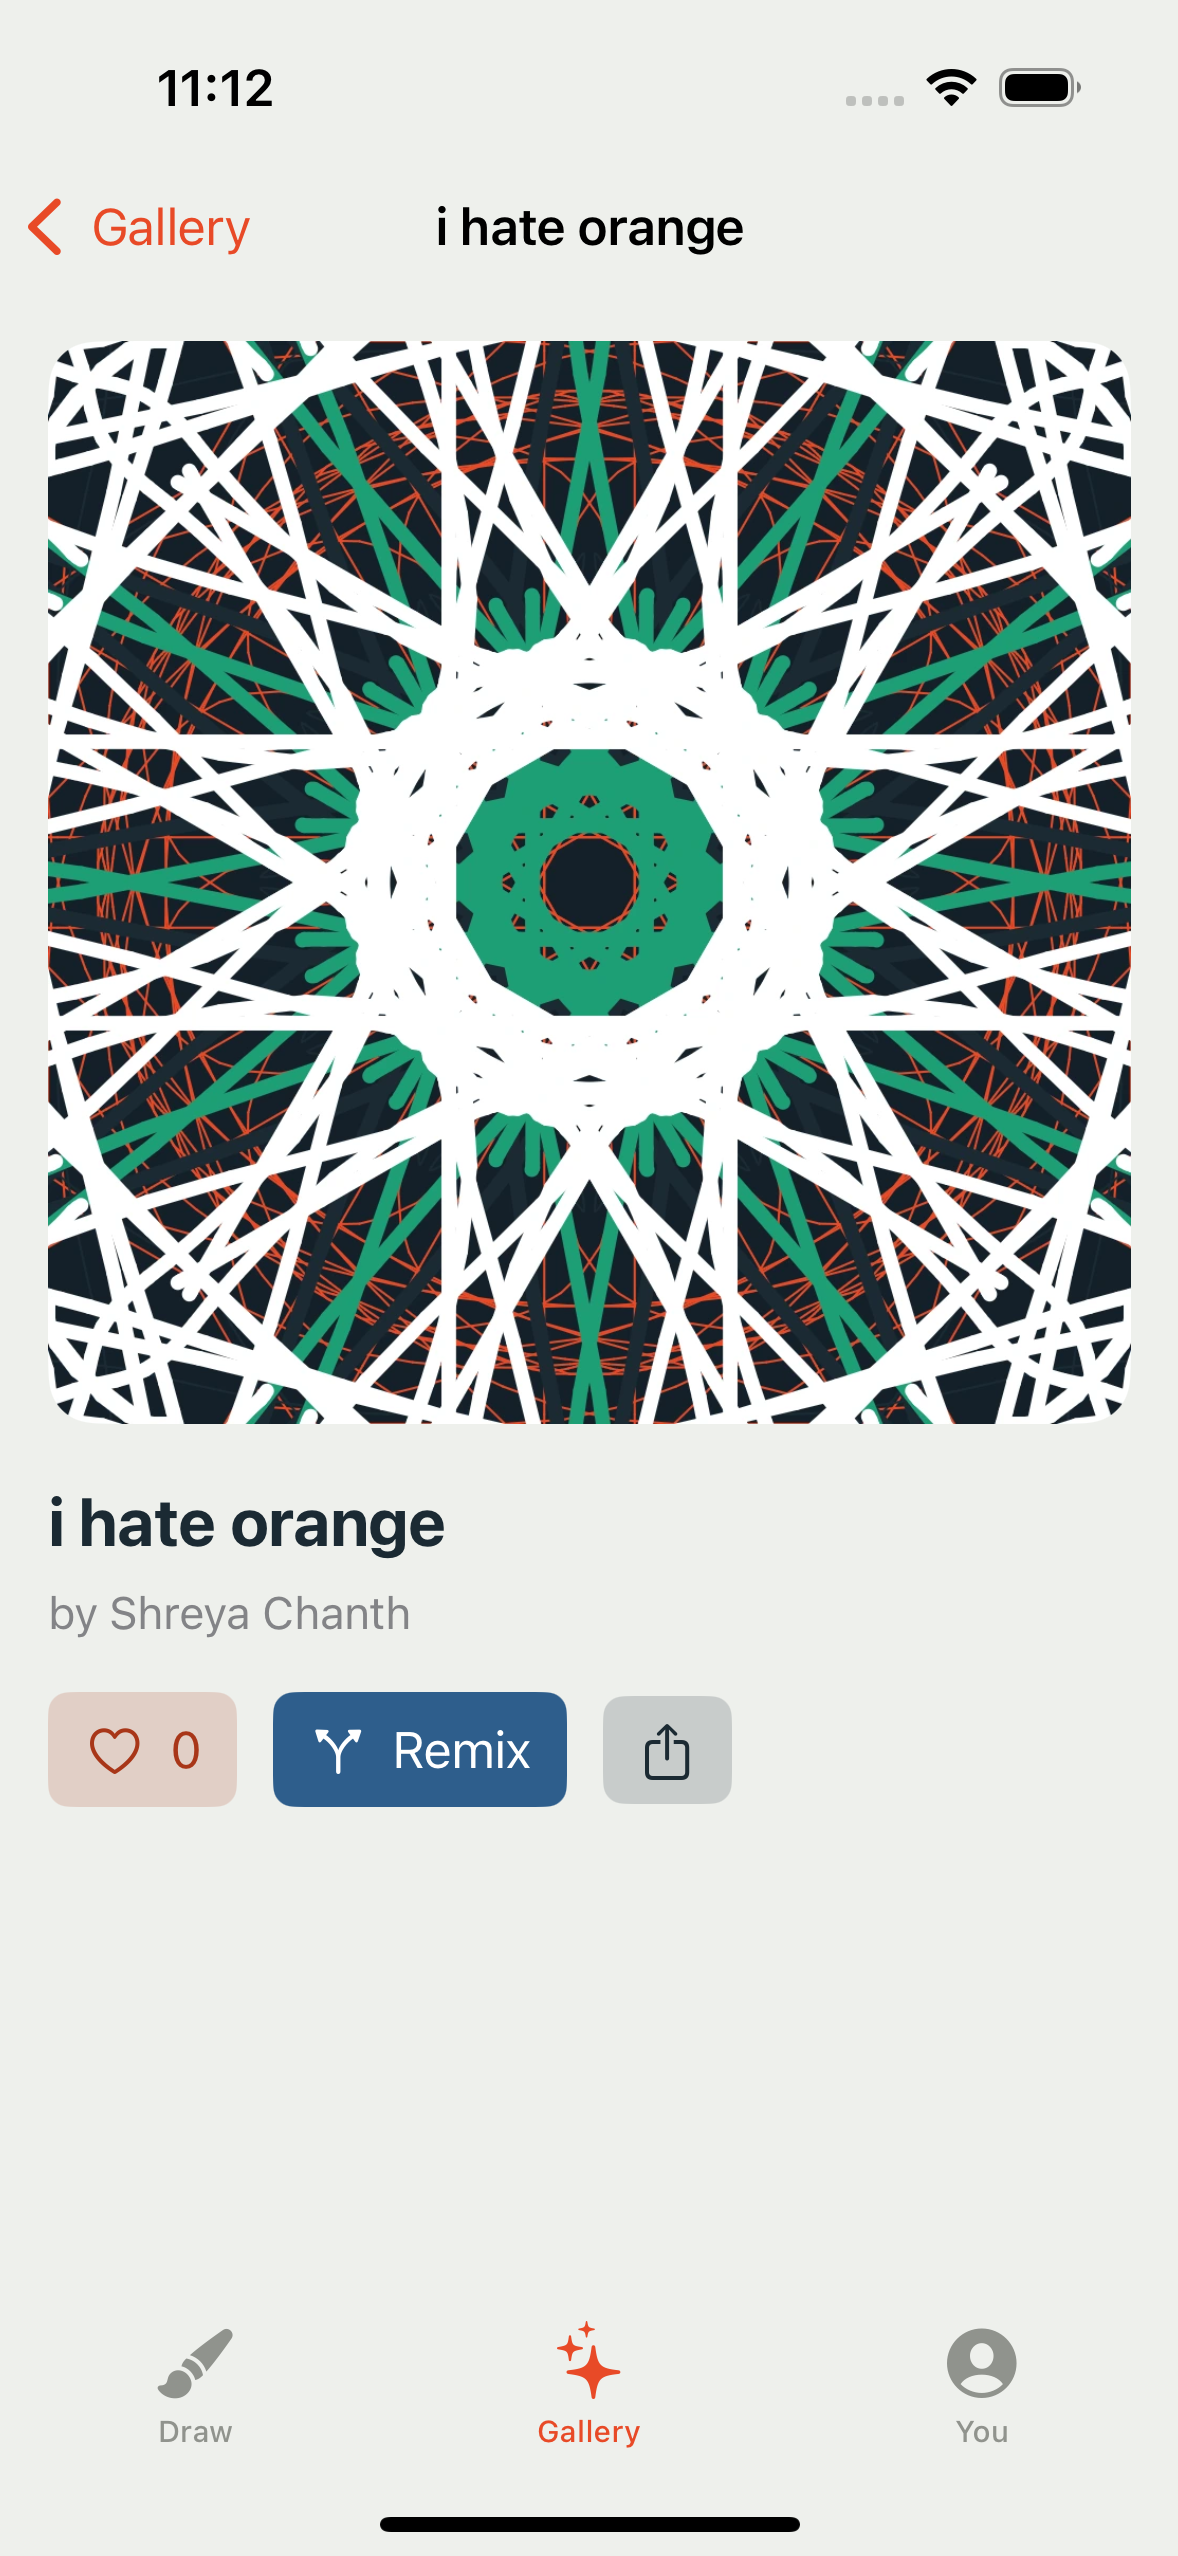
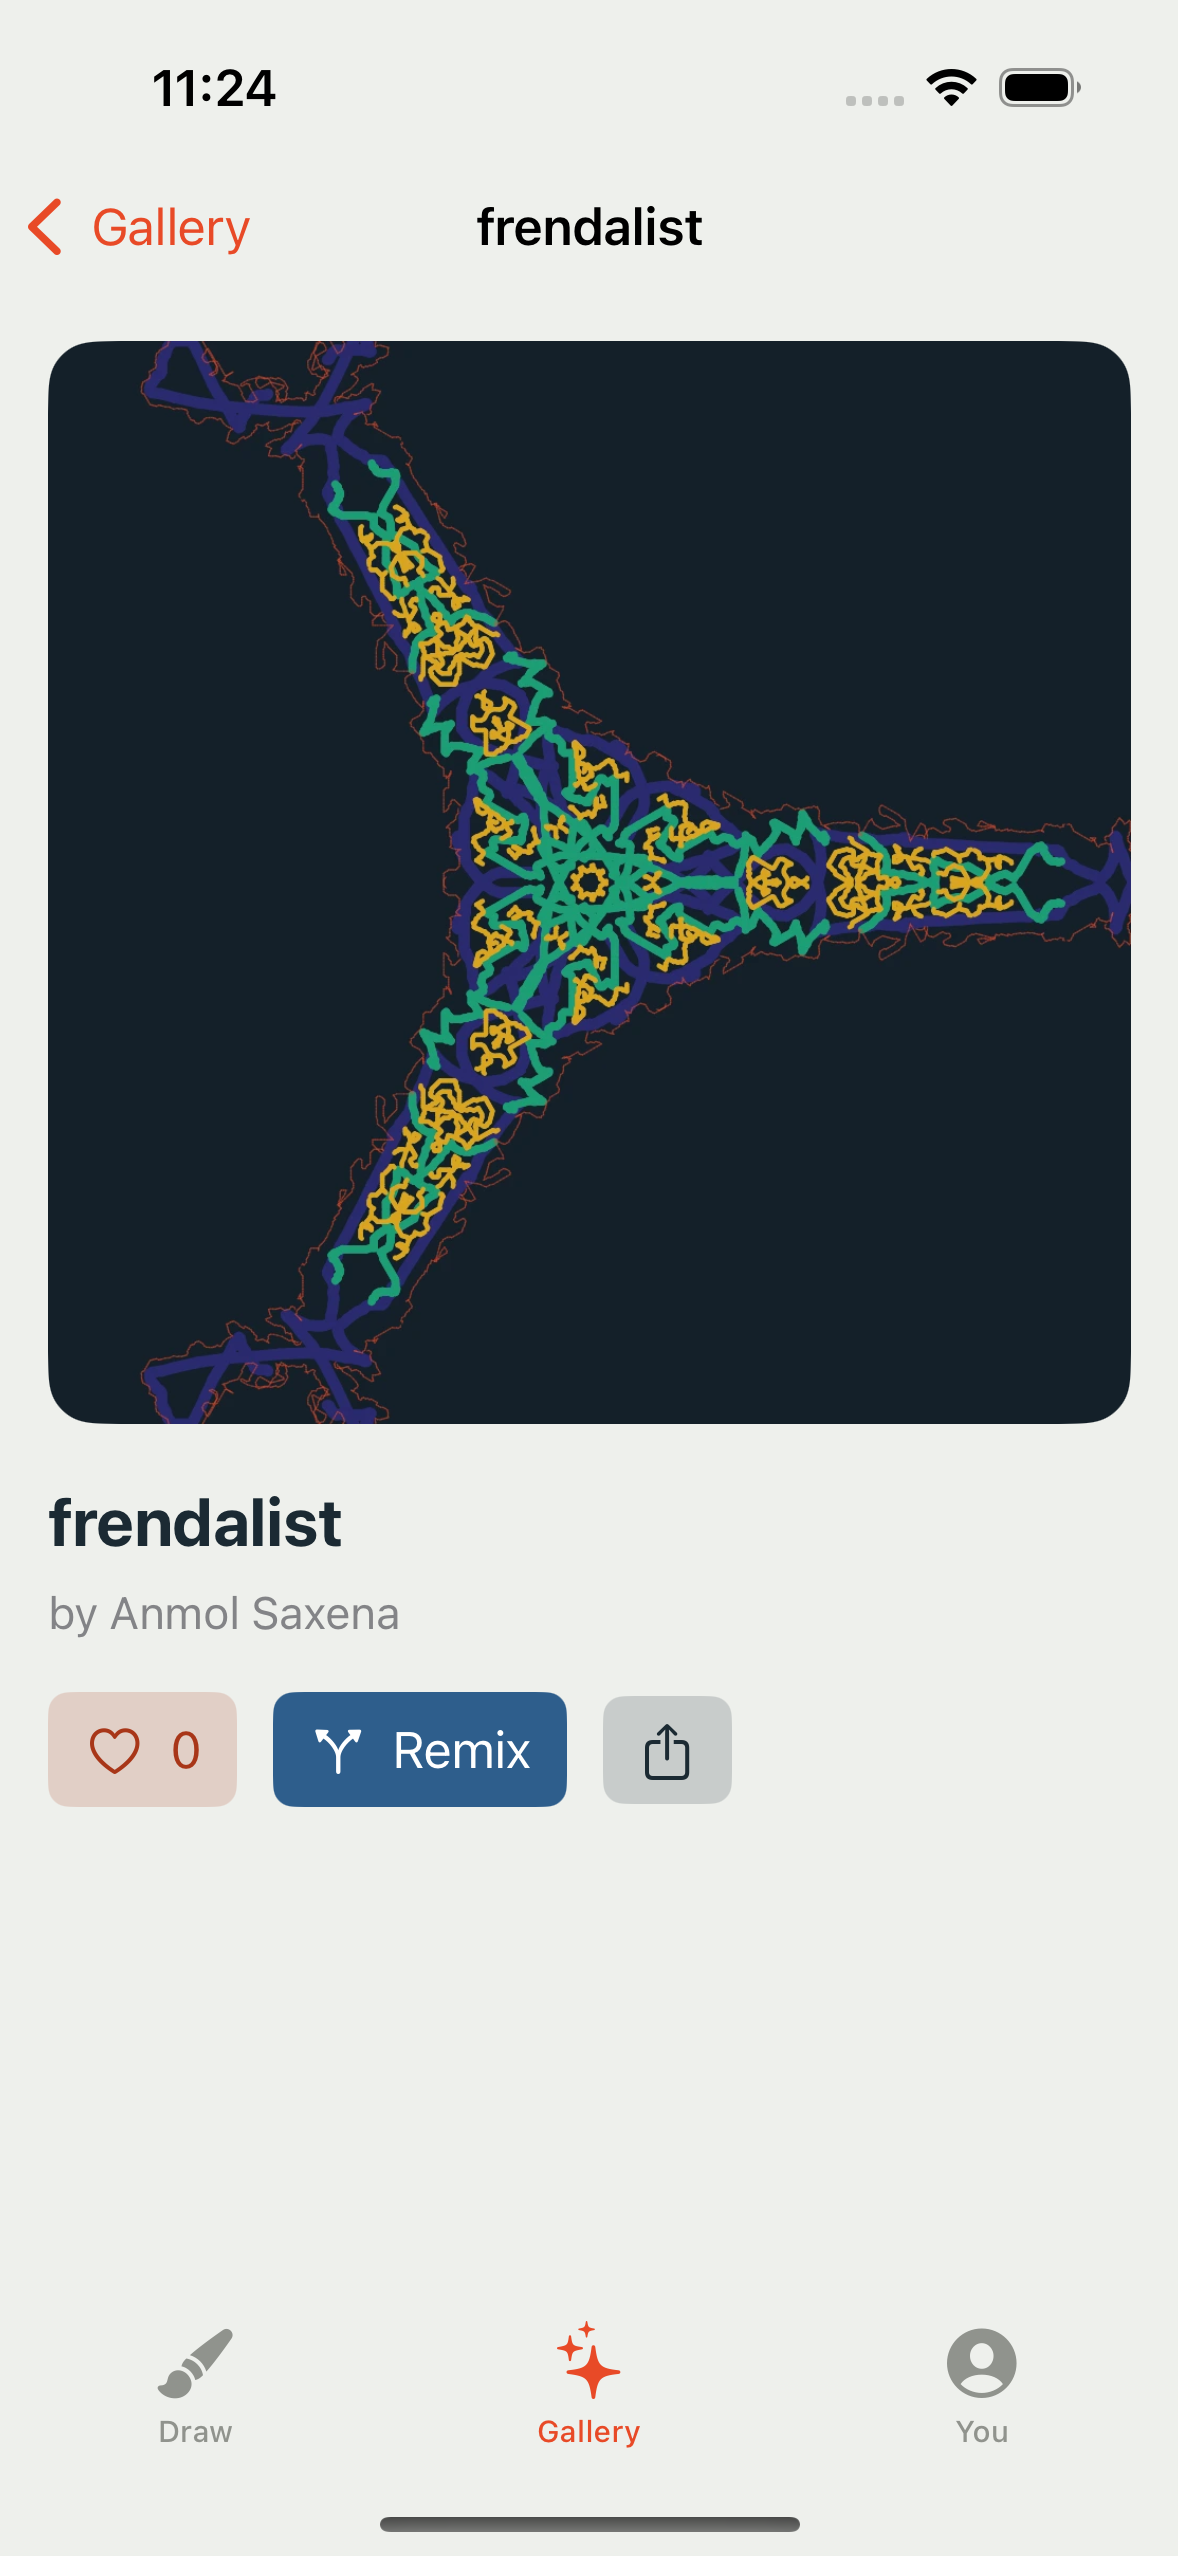
Anonymize accessibility3 gallery/artwork screenshots
Match the marketing-screenshot privacy convention: blur other users' author
names in the gallery (titles stay visible), and use the owner's own "frendalist"
piece for the artwork detail instead of an arbitrary public piece. Adds a UI-test
that opens the frendalist artwork. Only the owner's own name remains visible.

Claude-Session: https://claude.ai/code/session_01U1R21Uoqm5tLFpFWGHgBra

diff --git a/ios/UITests/AccessibilityUITests.swift b/ios/UITests/AccessibilityUITests.swift
@@ -130,6 +130,42 @@ final class AccessibilityUITests: XCTestCase {
         }
     }
 
+    /// Re-captures ONLY the artwork detail, opening the owner's own piece
+    /// "frendalist" (shows "by Anmol Saxena" — the owner's own name, fine to
+    /// display) rather than an arbitrary other-user piece. Same .accessibility3
+    /// launch arg. Used to replace 04-artwork-detail with a privacy-safe shot.
+    func testAccessibility3FrendalistArtwork() {
+        let app = XCUIApplication()
+        app.launchArguments += ["-UIPreferredContentSizeCategoryName",
+                                "UICTContentSizeCategoryAccessibilityExtraLarge"]
+        app.launchEnvironment["KALEIDO_DEMO"] = "1"
+        app.launch()
+
+        app.tabBars.buttons["Gallery"].tap()
+        XCTAssertTrue(app.buttons["Shuffle"].waitForExistence(timeout: 15))
+
+        // The gallery cards are combined elements whose label contains the title;
+        // scroll until the "frendalist" card is realized, then open it.
+        let frendalist = app.buttons.matching(
+            NSPredicate(format: "label CONTAINS[c] %@", "frendalist")).firstMatch
+        var tries = 0
+        while !frendalist.exists && tries < 10 {
+            app.swipeUp()
+            tries += 1
+        }
+        XCTAssertTrue(frendalist.waitForExistence(timeout: 5),
+                      "frendalist card should be reachable in the gallery")
+        frendalist.tap()
+
+        XCTAssertTrue(app.buttons["Remix"].waitForExistence(timeout: 12),
+                      "artwork detail should load")
+        // Confirm we're on the frendalist detail before capturing.
+        XCTAssertTrue(app.navigationBars["frendalist"].waitForExistence(timeout: 5)
+                      || app.staticTexts["frendalist"].exists,
+                      "detail should be the frendalist piece")
+        snap(app, "04-artwork-detail")
+    }
+
     /// Attach a full-screen screenshot, kept regardless of test outcome.
     private func snap(_ app: XCUIApplication, _ name: String) {
         let shot = XCUIScreen.main.screenshot()
